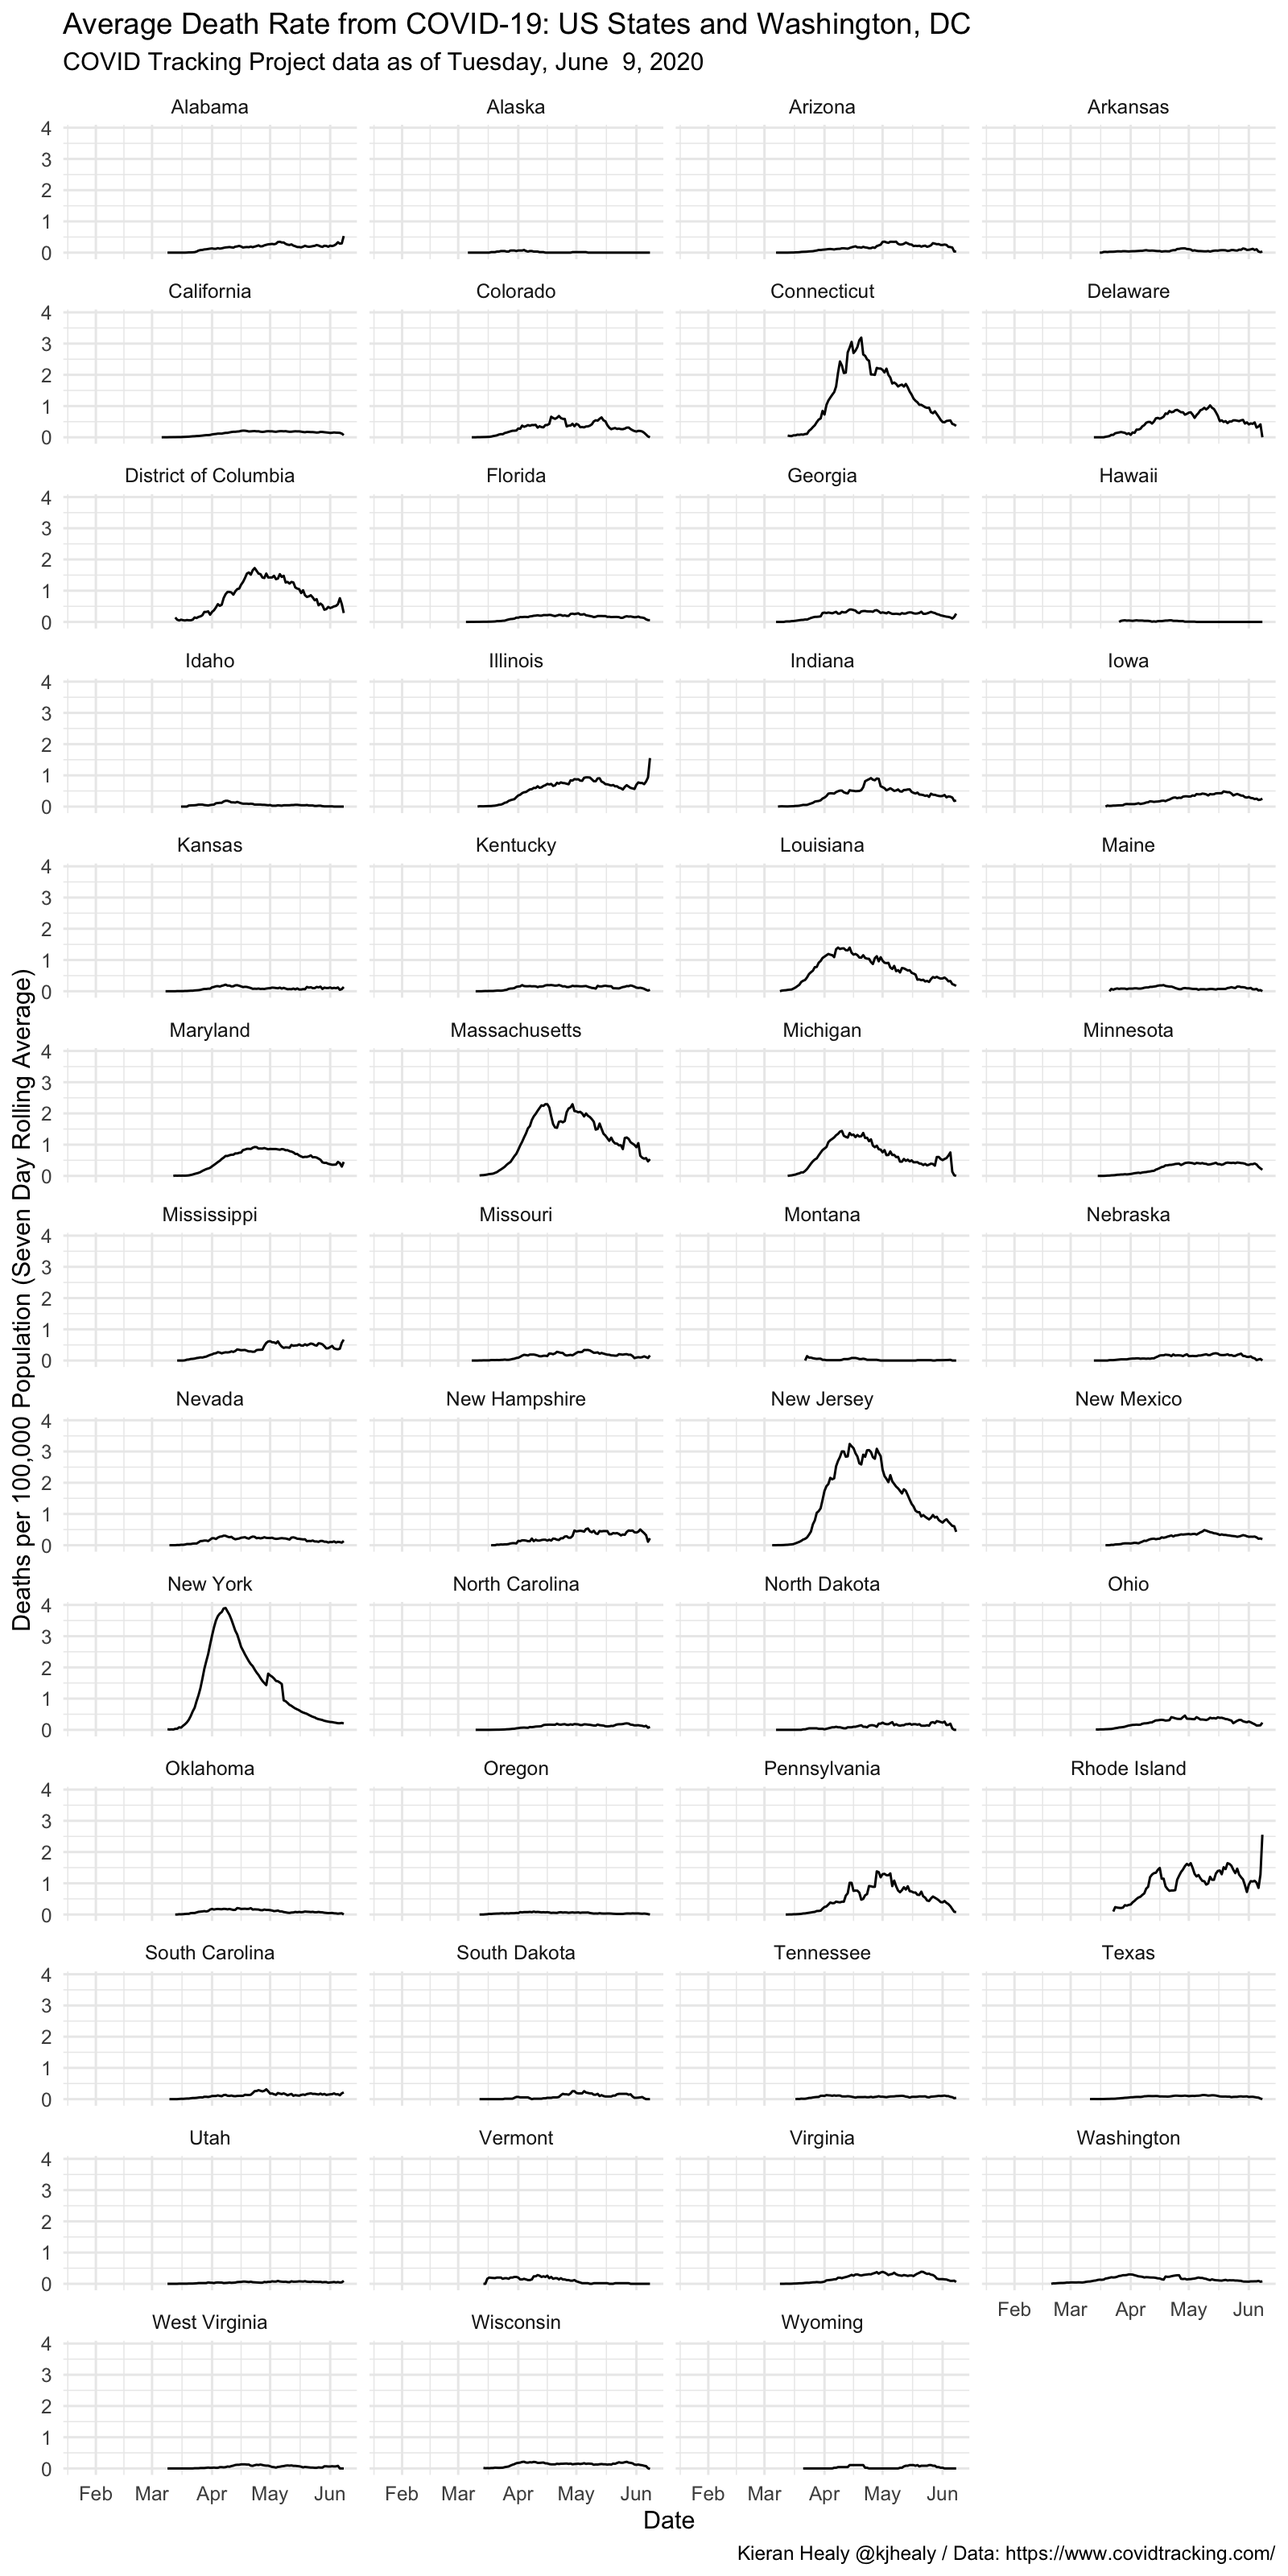
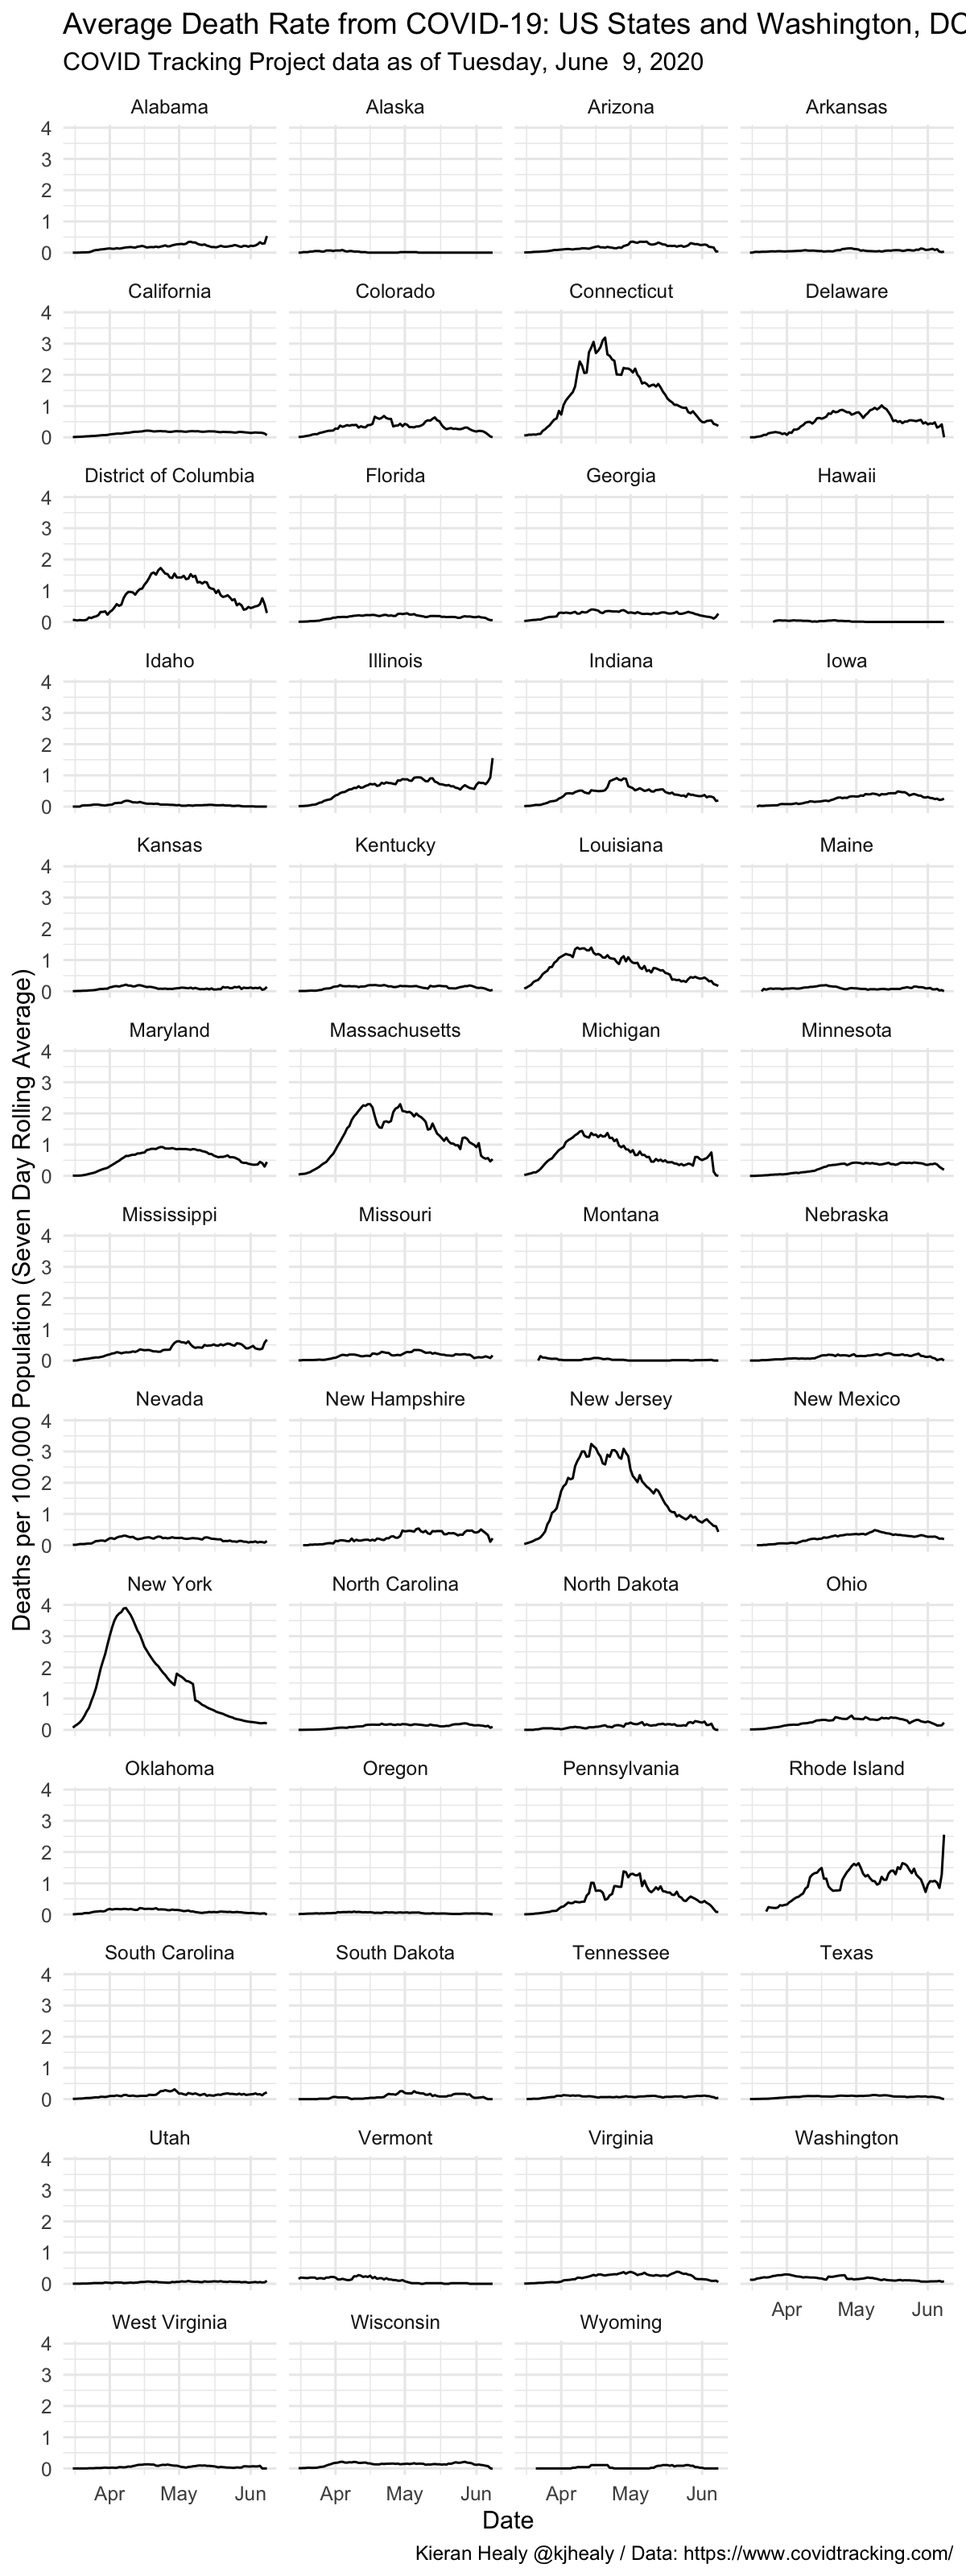
Built site for covdata: 0.2.4.9000@90f8da5

diff --git a/articles/us-data.html b/articles/us-data.html
@@ -222,6 +222,7 @@
     <span class="kw">deaths_daily</span> <span class="kw">=</span> <span class="fu">get_daily_count</span>(<span class="no">count</span>, <span class="no">date</span>),
     <span class="kw">deaths7</span> <span class="kw">=</span> <span class="kw pkg">slider</span><span class="kw ns">::</span><span class="fu"><a href="https://rdrr.io/pkg/slider/man/slide.html">slide_dbl</a></span>(<span class="no">deaths_daily</span>, <span class="no">mean</span>, <span class="kw">.before</span> <span class="kw">=</span> <span class="fl">7</span>, <span class="kw">.after</span> <span class="kw">=</span> <span class="fl">0</span>, <span class="kw">na.rm</span> <span class="kw">=</span> <span class="fl">TRUE</span>)) <span class="kw">%&gt;%</span>
   <span class="fu">left_join</span>(<span class="no">state_pops</span>) <span class="kw">%&gt;%</span>
+  <span class="fu"><a href="https://rdrr.io/r/stats/filter.html">filter</a></span>(<span class="no">date</span> <span class="kw">&gt;</span> <span class="kw pkg">lubridate</span><span class="kw ns">::</span><span class="fu"><a href="http://lubridate.tidyverse.org/reference/ymd.html">ymd</a></span>(<span class="st">"2020-03-15"</span>)) <span class="kw">%&gt;%</span>
   <span class="fu">ggplot</span>(<span class="kw">mapping</span> <span class="kw">=</span> <span class="fu">aes</span>(<span class="kw">x</span> <span class="kw">=</span> <span class="no">date</span>, <span class="kw">y</span> <span class="kw">=</span> (<span class="no">deaths7</span>/<span class="no">pop</span>)*<span class="fl">1e5</span>)) +
   <span class="fu">geom_line</span>(<span class="kw">size</span> <span class="kw">=</span> <span class="fl">0.5</span>) +
   <span class="fu">scale_y_continuous</span>(<span class="kw">labels</span> <span class="kw">=</span> <span class="kw pkg">scales</span><span class="kw ns">::</span><span class="fu"><a href="https://scales.r-lib.org//reference/label_number.html">comma_format</a></span>(<span class="kw">accuracy</span> <span class="kw">=</span> <span class="fl">1</span>)) +
@@ -232,9 +233,8 @@
        <span class="kw">subtitle</span> <span class="kw">=</span> <span class="fu"><a href="https://rdrr.io/r/base/paste.html">paste</a></span>(<span class="st">"COVID Tracking Project data as of"</span>, <span class="fu"><a href="https://rdrr.io/r/base/format.html">format</a></span>(<span class="fu"><a href="https://rdrr.io/r/base/Extremes.html">max</a></span>(<span class="no">covnat</span>$<span class="no">date</span>), <span class="st">"%A, %B %e, %Y"</span>)),
        <span class="kw">caption</span> <span class="kw">=</span> <span class="st">"Kieran Healy @kjhealy / Data: https://www.covidtracking.com/"</span>) +
   <span class="fu">theme_minimal</span>()
-<span class="co">#&gt; Joining, by = c("state", "fips")</span>
-<span class="co">#&gt; Warning: Removed 2 row(s) containing missing values (geom_path).</span></pre></body></html></div>
-<p><img src="us-data_files/figure-html/rolling-state-1.png" width="800"></p>
+<span class="co">#&gt; Joining, by = c("state", "fips")</span></pre></body></html></div>
+<p><img src="us-data_files/figure-html/rolling-state-1.png" width="600"></p>
 </div>
 <div id="draw-a-graph-of-cumulative-reported-us-deaths-aggregated-to-the-national-level" class="section level3">
 <h3 class="hasAnchor">
